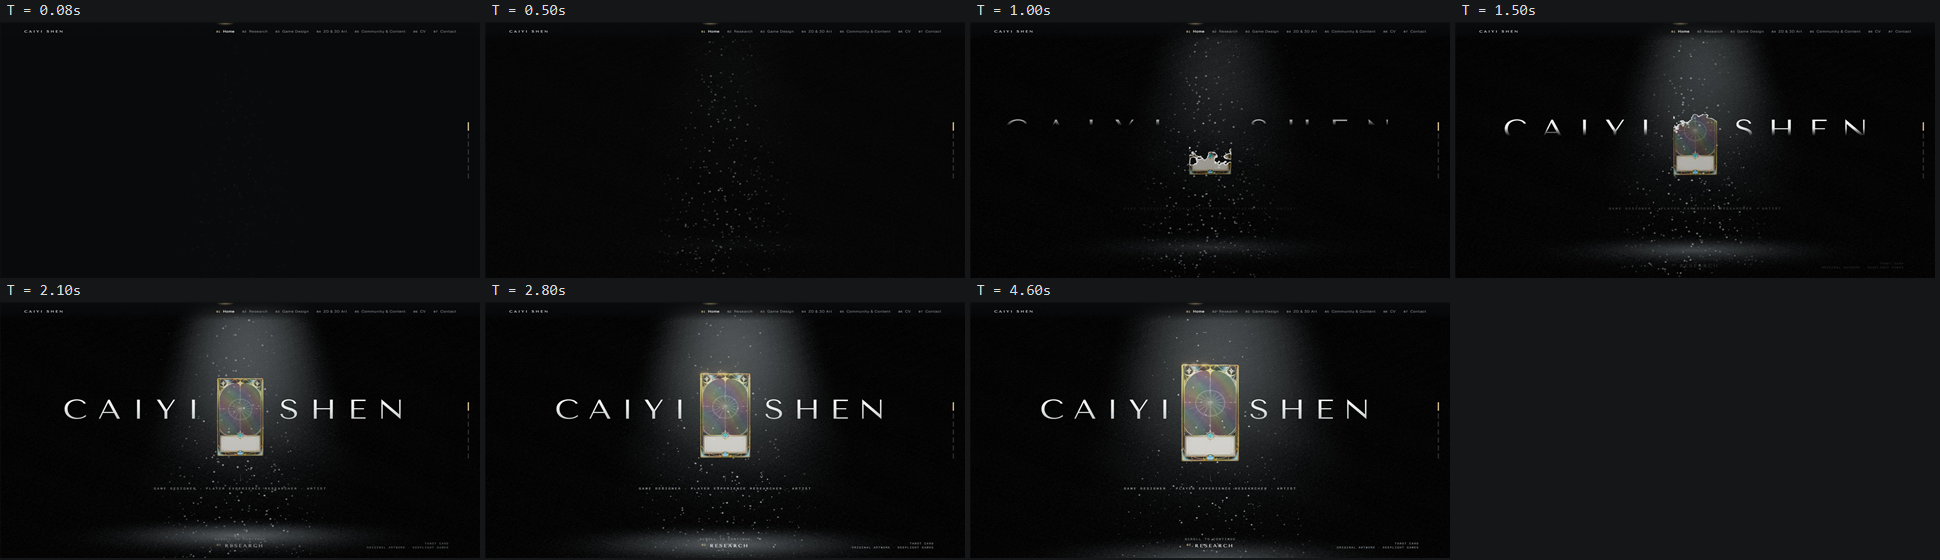
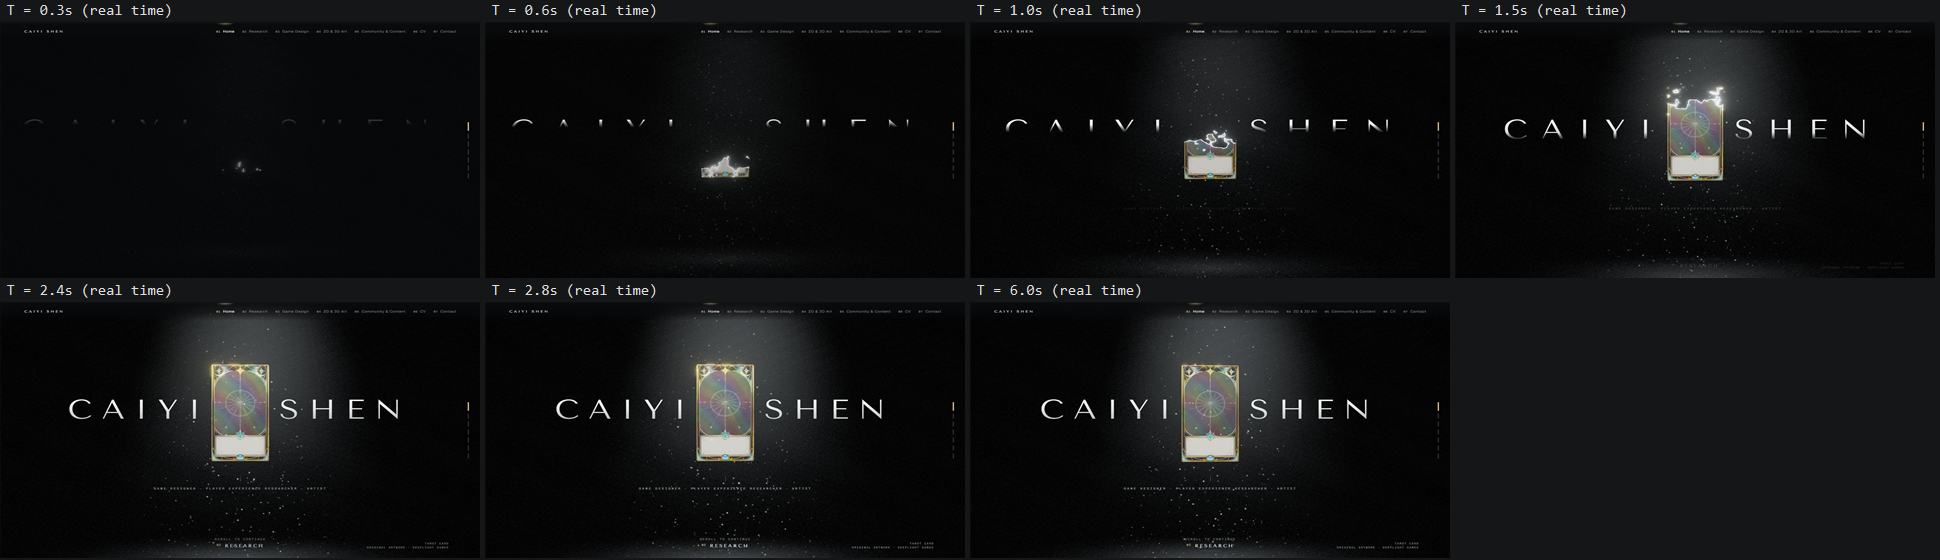
Cover: perceptually synchronise spotlight, name and card; faster entrance

diff --git a/preview/c2/js/scene.js b/preview/c2/js/scene.js
@@ -12,6 +12,8 @@ const clamp01 = v => Math.min(1, Math.max(0, v));
  * they read as one shot. The camera push-in (4.6 s) starts at the same T = 0
  * and simply runs a little longer, settling after the reveal. */
 export const REVEAL = 2.8;
+export const APPROACH = 2.4;   // camera push-in + entrance turn (was 4.6 s)
+const approachEase = t => 1 - Math.pow(1 - t, 2.6);
 const introEase = ease.inOutSine;
 const A = p => new URL(p, import.meta.url).href;
 
@@ -36,7 +38,7 @@ export const theme = {
   camera: {
     fov: 28,
     pose(p, k, st) {
-      const e = ease.inOutSine(k), t = st.t, s = st.scroll;
+      const e = approachEase(clamp01(st.t / APPROACH)), t = st.t, s = st.scroll;
       p.pos.set(Math.sin(t * 0.06) * 0.06, lerp(0.35, 0.12, e) + s * 0.9, lerp(10.5, 6.4, e) + s * 2.6);
       p.look.set(0, lerp(0.2, 0.18, e) + s * 1.3, 0);
       p.fov = lerp(24, 28, e);
@@ -46,10 +48,10 @@ export const theme = {
     if (st.mobile || st.aspect < 0.9) return { x: 0, y: 0.78, scale: 0.6 };
     return { x: 0, y: 0.38, scale: 0.62 };
   },
-  intro: { duration: 4.6, revealStart: 0, revealEnd: REVEAL, revealEase: introEase },
+  intro: { duration: 4.6, revealStart: 0, revealEnd: REVEAL, revealEase: introEase, revealFrom: 0.13 },
   yawLimit: 0.36,
   cardMotion(st, k, T) {
-    return { y: Math.sin(T * 0.45) * 0.03, yaw: Math.sin(T * 0.11) * 0.16 + (1 - ease.outCubic(k)) * 0.2, pitch: 0.02 + Math.sin(T * 0.09) * 0.02, roll: 0 };
+    return { y: Math.sin(T * 0.45) * 0.03, yaw: Math.sin(T * 0.11) * 0.16 + (1 - approachEase(clamp01(T / APPROACH))) * 0.2, pitch: 0.02 + Math.sin(T * 0.09) * 0.02, roll: 0 };
   },
   parallax: 0.06,
   particles: [
@@ -72,22 +74,28 @@ export const theme = {
     // The real lights come up with the beam (from a faint ambient floor, so
     // the frame is never black and nothing flashes).
     const lights = []; scene.traverse(o => { if (o.isLight) lights.push([o, o.intensity]); });
+    const dust = []; scene.traverse(o => { if (o.isPoints && o.material.uniforms?.uOpacity) dust.push([o.material.uniforms.uOpacity, o.material.uniforms.uOpacity.value]); });
+    const SPOT_GAMMA = 0.72;  // tuned against frame measurements (see DEVLOG)
     const cover = document.querySelector('.cover');
     const words = cover ? [...cover.querySelectorAll('.cover-name .w')] : [];
     const meta = cover ? [...cover.querySelectorAll('.cover-meta, .c2-next, .cover-credit')] : [];
     const portrait = matchMedia('(max-aspect-ratio: 1/1), (max-width: 760px)');
     const reducedMQ = matchMedia('(prefers-reduced-motion: reduce)');
     let done = false;
+    const M0 = 4;            // mask edge just above the cap height: letters begin to show at once
     if (cover) document.documentElement.classList.add('tl-driven');
     return { update(st, k, T) {
       const a = reducedMQ.matches ? 1 : introEase(clamp01(T / REVEAL));
-      beam.material.uniforms.uA.value = a * (1 - st.scroll * 0.6);
-      pool.material.uniforms.uA.value = a;
-      for (const [l, base] of lights) l.intensity = base * (0.14 + 0.86 * a);
+      const v = Math.pow(a, SPOT_GAMMA);
+      beam.material.uniforms.uA.value = v * (1 - st.scroll * 0.6);
+      pool.material.uniforms.uA.value = v;
+      for (const [u, base] of dust) u.value = base * v;
+      // The light on the card itself has a higher floor, so the card's first fragments are visible as soon as they form.
+      for (const [l, base] of lights) l.intensity = base * (0.5 + 0.5 * a);
       if (done || !cover) return;
       // Name: lit from above as the light comes up, tracking settling — same clock, same ease.
       const ls0 = portrait.matches ? 0.5 : 0.62, ls1 = portrait.matches ? 0.22 : 0.3;
-      for (const w of words) { w.style.setProperty('--m', (-30 + 130 * a).toFixed(2) + '%'); w.style.setProperty('--ls', (ls0 + (ls1 - ls0) * a).toFixed(4) + 'em'); w.style.opacity = String(clamp01(a / 0.12)); }
+      for (const w of words) { w.style.setProperty('--m', (M0 + (100 - M0) * a).toFixed(2) + '%'); w.style.setProperty('--ls', (ls0 + (ls1 - ls0) * a).toFixed(4) + 'em'); w.style.opacity = String(clamp01(a / 0.12)); }
       meta.forEach((m, i) => { m.style.opacity = String(Math.pow(a, 1.6 + i * 0.8)); });
       if (a >= 1) { done = true; for (const w of words) { w.style.removeProperty('--m'); w.style.removeProperty('--ls'); } document.documentElement.classList.add('scene-lit'); }
     } };

diff --git a/prototypes/src/c2/scene.js b/prototypes/src/c2/scene.js
@@ -12,6 +12,8 @@ const clamp01 = v => Math.min(1, Math.max(0, v));
  * they read as one shot. The camera push-in (4.6 s) starts at the same T = 0
  * and simply runs a little longer, settling after the reveal. */
 export const REVEAL = 2.8;
+export const APPROACH = 2.4;   // camera push-in + entrance turn (was 4.6 s)
+const approachEase = t => 1 - Math.pow(1 - t, 2.6);
 const introEase = ease.inOutSine;
 const A = p => new URL(p, import.meta.url).href;
 
@@ -36,7 +38,7 @@ export const theme = {
   camera: {
     fov: 28,
     pose(p, k, st) {
-      const e = ease.inOutSine(k), t = st.t, s = st.scroll;
+      const e = approachEase(clamp01(st.t / APPROACH)), t = st.t, s = st.scroll;
       p.pos.set(Math.sin(t * 0.06) * 0.06, lerp(0.35, 0.12, e) + s * 0.9, lerp(10.5, 6.4, e) + s * 2.6);
       p.look.set(0, lerp(0.2, 0.18, e) + s * 1.3, 0);
       p.fov = lerp(24, 28, e);
@@ -46,10 +48,10 @@ export const theme = {
     if (st.mobile || st.aspect < 0.9) return { x: 0, y: 0.78, scale: 0.6 };
     return { x: 0, y: 0.38, scale: 0.62 };
   },
-  intro: { duration: 4.6, revealStart: 0, revealEnd: REVEAL, revealEase: introEase },
+  intro: { duration: 4.6, revealStart: 0, revealEnd: REVEAL, revealEase: introEase, revealFrom: 0.13 },
   yawLimit: 0.36,
   cardMotion(st, k, T) {
-    return { y: Math.sin(T * 0.45) * 0.03, yaw: Math.sin(T * 0.11) * 0.16 + (1 - ease.outCubic(k)) * 0.2, pitch: 0.02 + Math.sin(T * 0.09) * 0.02, roll: 0 };
+    return { y: Math.sin(T * 0.45) * 0.03, yaw: Math.sin(T * 0.11) * 0.16 + (1 - approachEase(clamp01(T / APPROACH))) * 0.2, pitch: 0.02 + Math.sin(T * 0.09) * 0.02, roll: 0 };
   },
   parallax: 0.06,
   particles: [
@@ -72,22 +74,28 @@ export const theme = {
     // The real lights come up with the beam (from a faint ambient floor, so
     // the frame is never black and nothing flashes).
     const lights = []; scene.traverse(o => { if (o.isLight) lights.push([o, o.intensity]); });
+    const dust = []; scene.traverse(o => { if (o.isPoints && o.material.uniforms?.uOpacity) dust.push([o.material.uniforms.uOpacity, o.material.uniforms.uOpacity.value]); });
+    const SPOT_GAMMA = 0.72;  // tuned against frame measurements (see DEVLOG)
     const cover = document.querySelector('.cover');
     const words = cover ? [...cover.querySelectorAll('.cover-name .w')] : [];
     const meta = cover ? [...cover.querySelectorAll('.cover-meta, .c2-next, .cover-credit')] : [];
     const portrait = matchMedia('(max-aspect-ratio: 1/1), (max-width: 760px)');
     const reducedMQ = matchMedia('(prefers-reduced-motion: reduce)');
     let done = false;
+    const M0 = 4;            // mask edge just above the cap height: letters begin to show at once
     if (cover) document.documentElement.classList.add('tl-driven');
     return { update(st, k, T) {
       const a = reducedMQ.matches ? 1 : introEase(clamp01(T / REVEAL));
-      beam.material.uniforms.uA.value = a * (1 - st.scroll * 0.6);
-      pool.material.uniforms.uA.value = a;
-      for (const [l, base] of lights) l.intensity = base * (0.14 + 0.86 * a);
+      const v = Math.pow(a, SPOT_GAMMA);
+      beam.material.uniforms.uA.value = v * (1 - st.scroll * 0.6);
+      pool.material.uniforms.uA.value = v;
+      for (const [u, base] of dust) u.value = base * v;
+      // The light on the card itself has a higher floor, so the card's first fragments are visible as soon as they form.
+      for (const [l, base] of lights) l.intensity = base * (0.5 + 0.5 * a);
       if (done || !cover) return;
       // Name: lit from above as the light comes up, tracking settling — same clock, same ease.
       const ls0 = portrait.matches ? 0.5 : 0.62, ls1 = portrait.matches ? 0.22 : 0.3;
-      for (const w of words) { w.style.setProperty('--m', (-30 + 130 * a).toFixed(2) + '%'); w.style.setProperty('--ls', (ls0 + (ls1 - ls0) * a).toFixed(4) + 'em'); w.style.opacity = String(clamp01(a / 0.12)); }
+      for (const w of words) { w.style.setProperty('--m', (M0 + (100 - M0) * a).toFixed(2) + '%'); w.style.setProperty('--ls', (ls0 + (ls1 - ls0) * a).toFixed(4) + 'em'); w.style.opacity = String(clamp01(a / 0.12)); }
       meta.forEach((m, i) => { m.style.opacity = String(Math.pow(a, 1.6 + i * 0.8)); });
       if (a >= 1) { done = true; for (const w of words) { w.style.removeProperty('--m'); w.style.removeProperty('--ls'); } document.documentElement.classList.add('scene-lit'); }
     } };

diff --git a/preview/c2/js/tarot-engine-c2.js b/preview/c2/js/tarot-engine-c2.js
@@ -356,7 +356,9 @@ export async function mountScene(root, theme) {
   }
 
   // State.
-  const st = { t: 0, intro: reduce.matches ? 1 : 0, scroll: 0, px: 0, py: 0, tx: 0, ty: 0, aspect: 1, mobile: mobile(), running: false, visible: true };
+  // QA only: ?freeze=<seconds> holds the opening clock at an exact time.
+  const FREEZE = parseFloat(new URLSearchParams(location.search).get('freeze'));
+  const st = { t: Number.isFinite(FREEZE) ? FREEZE : 0, intro: reduce.matches ? 1 : 0, scroll: 0, px: 0, py: 0, tx: 0, ty: 0, aspect: 1, mobile: mobile(), running: false, visible: true };
   const pose = { pos: new THREE.Vector3(), look: new THREE.Vector3(), fov: 30 };
 
   function resize() {
@@ -391,7 +393,7 @@ export async function mountScene(root, theme) {
       cardPivot.position.set(c.x || 0, c.y || 0, c.z || 0);
       cardPivot.rotation.set(clamp((c.pitch || 0) - st.py * 0.14, -0.35, 0.35), clamp((c.yaw || 0) + st.px * 0.22, -yawLimit, yawLimit), c.roll || 0);
       cardPivot.scale.setScalar(c.scale ?? 1);
-      cardUniforms.uReveal.value = reduce.matches ? 1.2 : lerp(-0.05, 1.2, (I.revealEase || ease.inOutCubic)(seg(T, I.revealStart ?? 0.2, I.revealEnd ?? 1.8)));
+      cardUniforms.uReveal.value = reduce.matches ? 1.2 : lerp(I.revealFrom ?? -0.05, 1.2, (I.revealEase || ease.inOutCubic)(seg(T, I.revealStart ?? 0.2, I.revealEnd ?? 1.8)));
       cardUniforms.uGlow.value = reduce.matches ? 0 : (1 - seg(T, I.revealEnd ?? 1.8, (I.revealEnd ?? 1.8) + 0.6)) * (theme.glowStrength ?? 2.2);
       cardUniforms.uSweep.value = theme.sweep === false ? -3 : reduce.matches ? -3 : ((T * 0.22) % 4) - 2;
       updateGrating(cardUniforms, card, camera);
@@ -407,7 +409,7 @@ export async function mountScene(root, theme) {
   function loop(now) {
     raf = 0; if (!st.running) return;
     const dt = Math.min((now - last) / 1000, 0.05); last = now;
-    if (!reduce.matches) st.t += dt;
+    if (!reduce.matches && !Number.isFinite(FREEZE)) st.t += dt;
     if (dt > 0.026) { if (++slow > 45 && dpr > 1) { dpr = Math.max(1, dpr - 0.25); renderer.setPixelRatio(dpr); dprRef.value = dpr; resize(); slow = 0; } } else slow = Math.max(0, slow - 1);
     frame(dt);
     if (!reduce.matches) raf = requestAnimationFrame(loop);

diff --git a/prototypes/src/c2/tarot-engine-c2.js b/prototypes/src/c2/tarot-engine-c2.js
@@ -356,7 +356,9 @@ export async function mountScene(root, theme) {
   }
 
   // State.
-  const st = { t: 0, intro: reduce.matches ? 1 : 0, scroll: 0, px: 0, py: 0, tx: 0, ty: 0, aspect: 1, mobile: mobile(), running: false, visible: true };
+  // QA only: ?freeze=<seconds> holds the opening clock at an exact time.
+  const FREEZE = parseFloat(new URLSearchParams(location.search).get('freeze'));
+  const st = { t: Number.isFinite(FREEZE) ? FREEZE : 0, intro: reduce.matches ? 1 : 0, scroll: 0, px: 0, py: 0, tx: 0, ty: 0, aspect: 1, mobile: mobile(), running: false, visible: true };
   const pose = { pos: new THREE.Vector3(), look: new THREE.Vector3(), fov: 30 };
 
   function resize() {
@@ -391,7 +393,7 @@ export async function mountScene(root, theme) {
       cardPivot.position.set(c.x || 0, c.y || 0, c.z || 0);
       cardPivot.rotation.set(clamp((c.pitch || 0) - st.py * 0.14, -0.35, 0.35), clamp((c.yaw || 0) + st.px * 0.22, -yawLimit, yawLimit), c.roll || 0);
       cardPivot.scale.setScalar(c.scale ?? 1);
-      cardUniforms.uReveal.value = reduce.matches ? 1.2 : lerp(-0.05, 1.2, (I.revealEase || ease.inOutCubic)(seg(T, I.revealStart ?? 0.2, I.revealEnd ?? 1.8)));
+      cardUniforms.uReveal.value = reduce.matches ? 1.2 : lerp(I.revealFrom ?? -0.05, 1.2, (I.revealEase || ease.inOutCubic)(seg(T, I.revealStart ?? 0.2, I.revealEnd ?? 1.8)));
       cardUniforms.uGlow.value = reduce.matches ? 0 : (1 - seg(T, I.revealEnd ?? 1.8, (I.revealEnd ?? 1.8) + 0.6)) * (theme.glowStrength ?? 2.2);
       cardUniforms.uSweep.value = theme.sweep === false ? -3 : reduce.matches ? -3 : ((T * 0.22) % 4) - 2;
       updateGrating(cardUniforms, card, camera);
@@ -407,7 +409,7 @@ export async function mountScene(root, theme) {
   function loop(now) {
     raf = 0; if (!st.running) return;
     const dt = Math.min((now - last) / 1000, 0.05); last = now;
-    if (!reduce.matches) st.t += dt;
+    if (!reduce.matches && !Number.isFinite(FREEZE)) st.t += dt;
     if (dt > 0.026) { if (++slow > 45 && dpr > 1) { dpr = Math.max(1, dpr - 0.25); renderer.setPixelRatio(dpr); dprRef.value = dpr; resize(); slow = 0; } } else slow = Math.max(0, slow - 1);
     frame(dt);
     if (!reduce.matches) raf = requestAnimationFrame(loop);

diff --git a/docs/portfolio-redesign/DEVLOG.md b/docs/portfolio-redesign/DEVLOG.md
@@ -72,3 +72,30 @@ Feedback: keep C's tarot rendering, lighting, camera and opening; reject C's typ
   All three share REVEAL = 2.8 s and the same in-out sine ease, and all reach their resting state on the same frame. The roles and chapter cue fade in on the same curve, a touch later in the curve. The camera push-in starts at T = 0 and settles at 4.6 s, unchanged from Direction C.
 - **Measured** (`filmstrip2.js`): mask −29 % / 0.618 em at 0.08 s · 10.7 % / 0.520 em at 1.0 s · 46.6 % / 0.432 em at 1.5 s · 100 % / 0.30 em at 2.8 s, with the card dissolve and light level tracking the same curve.
 - **Fallbacks:** without WebGL the original CSS sequence plays over the artwork image. With reduced motion the timeline resolves to its final frame immediately. A 6 s failsafe keeps the name visible.
+
+## Opening sequence — perceptual synchronization
+Identical start times did not mean the three appeared together. Frames were rendered with the opening clock frozen at exact times (QA hook `?freeze=<s>`) and the visible brightness was measured in three regions: name, card footprint, and beam/dust around them, each normalised from black to its final value.
+
+**Before:**
+- At T = 0 the dust column inside the beam was already visible; its particles were never faded, so the light shaped an empty frame.
+- At 0.75 s the beam was at 16 % while the card was at 8 % and the name at 3 %.
+- The name's mask started about 26 % above the letters, so the first ~0.7 s of its reveal was invisible.
+- The card started small and far away (a 4.6 s approach), so it read late.
+
+**Changes (the name effect, the dissolve effect and both 2.8 s durations unchanged):**
+- **Name:** the mask now starts at the top edge of the letters (M0 = 4 % instead of −30 %), removing only the invisible lead-in.
+- **Card:** the dissolve starts at its first readable fragment (reveal threshold 0.13 instead of −0.05).
+- **Entrance:** the camera push-in and the entrance turn settle in 2.4 s (was 4.6 s) on a decelerating ease, so the card reaches its position as the reveal completes. The slow idle rotation afterwards is unchanged, and so is the final composition.
+- **Spotlight:** the beam cone, the light pool and the beam dust now share one visibility curve, tuned against the measurements: (reveal progress)^0.72. The lights on the card start at 50 % so its first fragments are visible as soon as they form.
+
+**After (frozen frames, normalised):**
+
+| T | name | card | beam |
+| --- | --- | --- | --- |
+| 0.25 s | ~0 % (tops visible) | 1.5 % | 1.5 % |
+| 0.35 s | 1.4 % | 7.3 % | 6.2 % |
+| 0.45 s | 4.7 % | 14.8 % | 11.5 % |
+| 1.0 s | 34 % | 53 % | 40 % |
+| 2.8 s | 100 % | 100 % | 100 % |
+
+Visually, the tops of the letters, the card's first fragments and a faint beam surface together at about 0.3 s, both in frozen frames and in real-time playback. The spotlight is never visible before the name and card. (The name's measured brightness is lower than its visibility because only the tops of thin letters are lit at first; frames were judged by eye as well as by measurement.)
